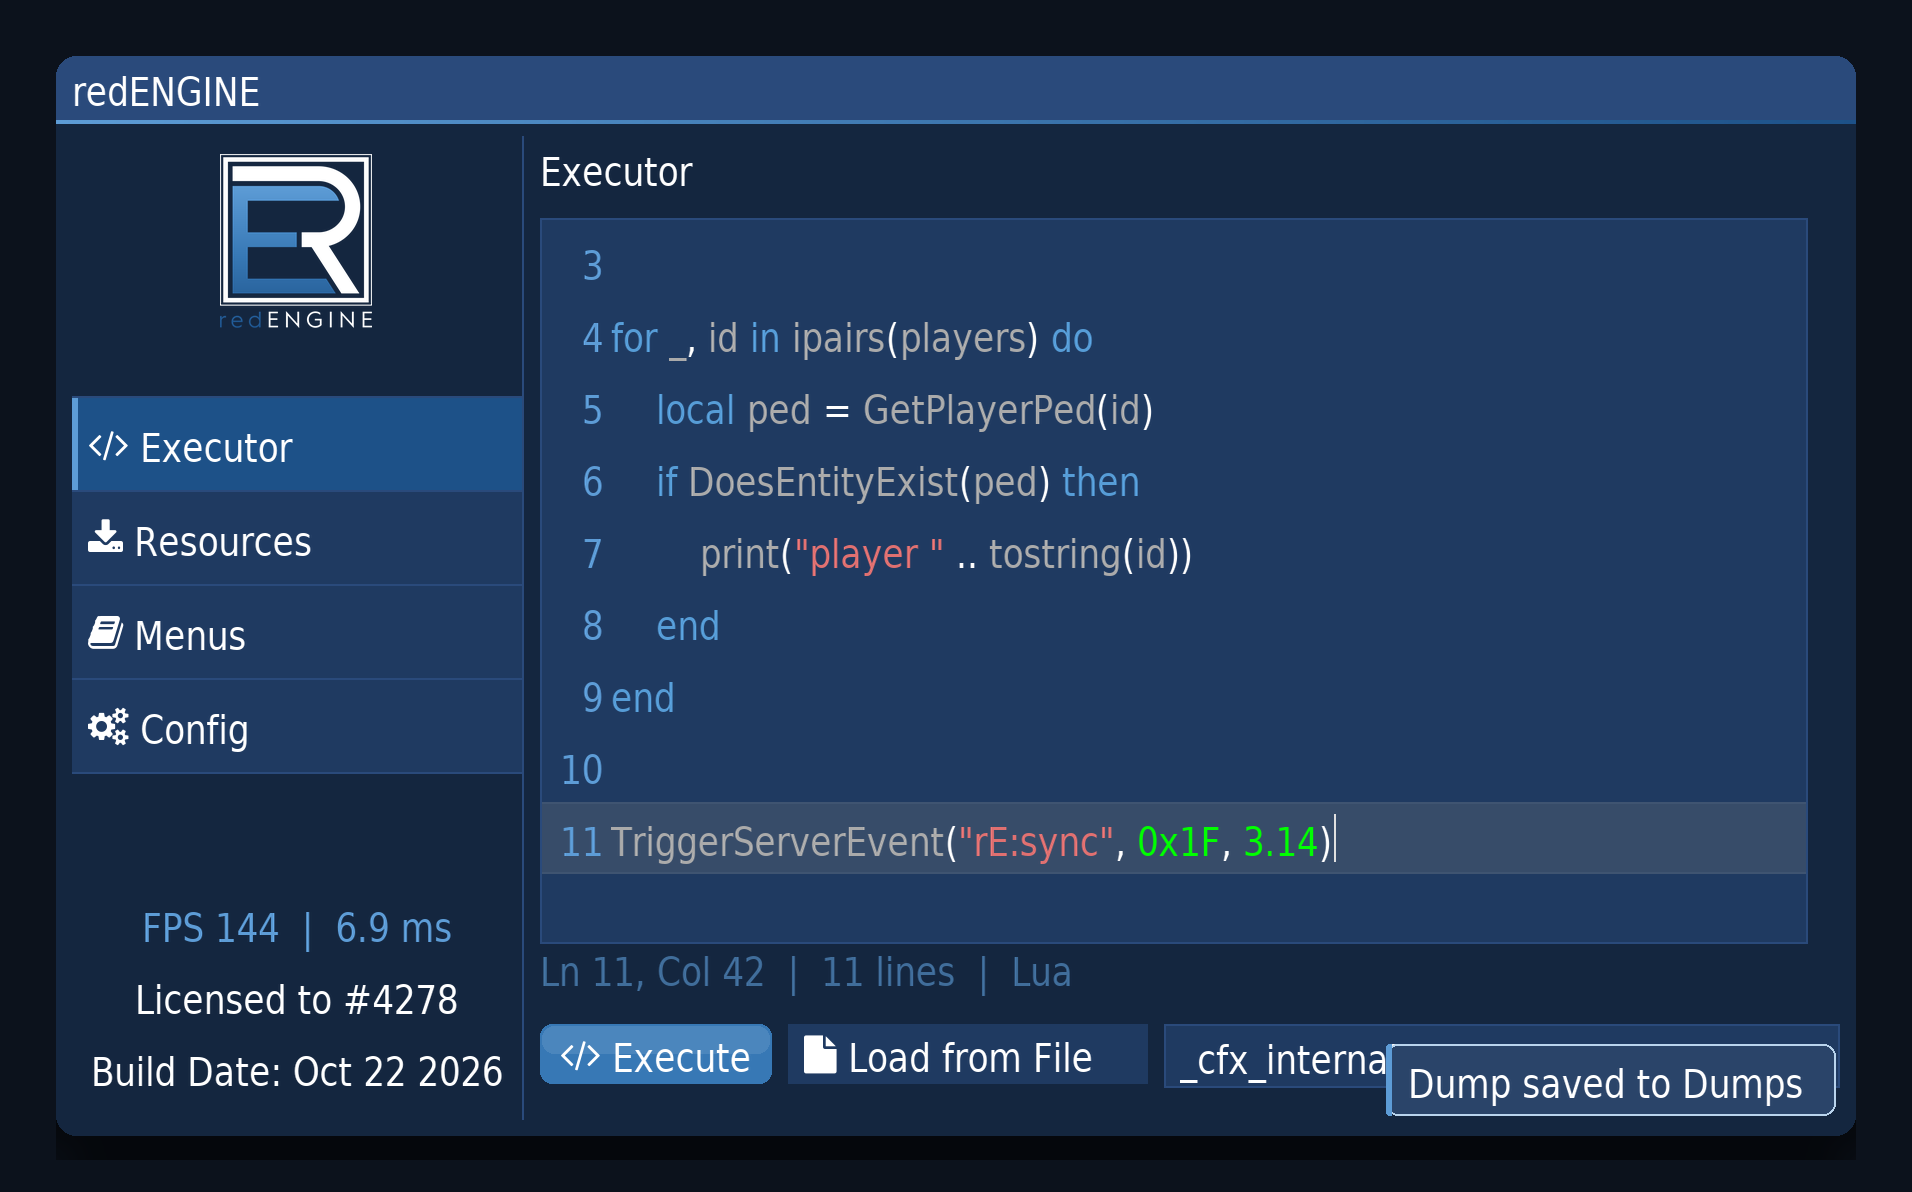
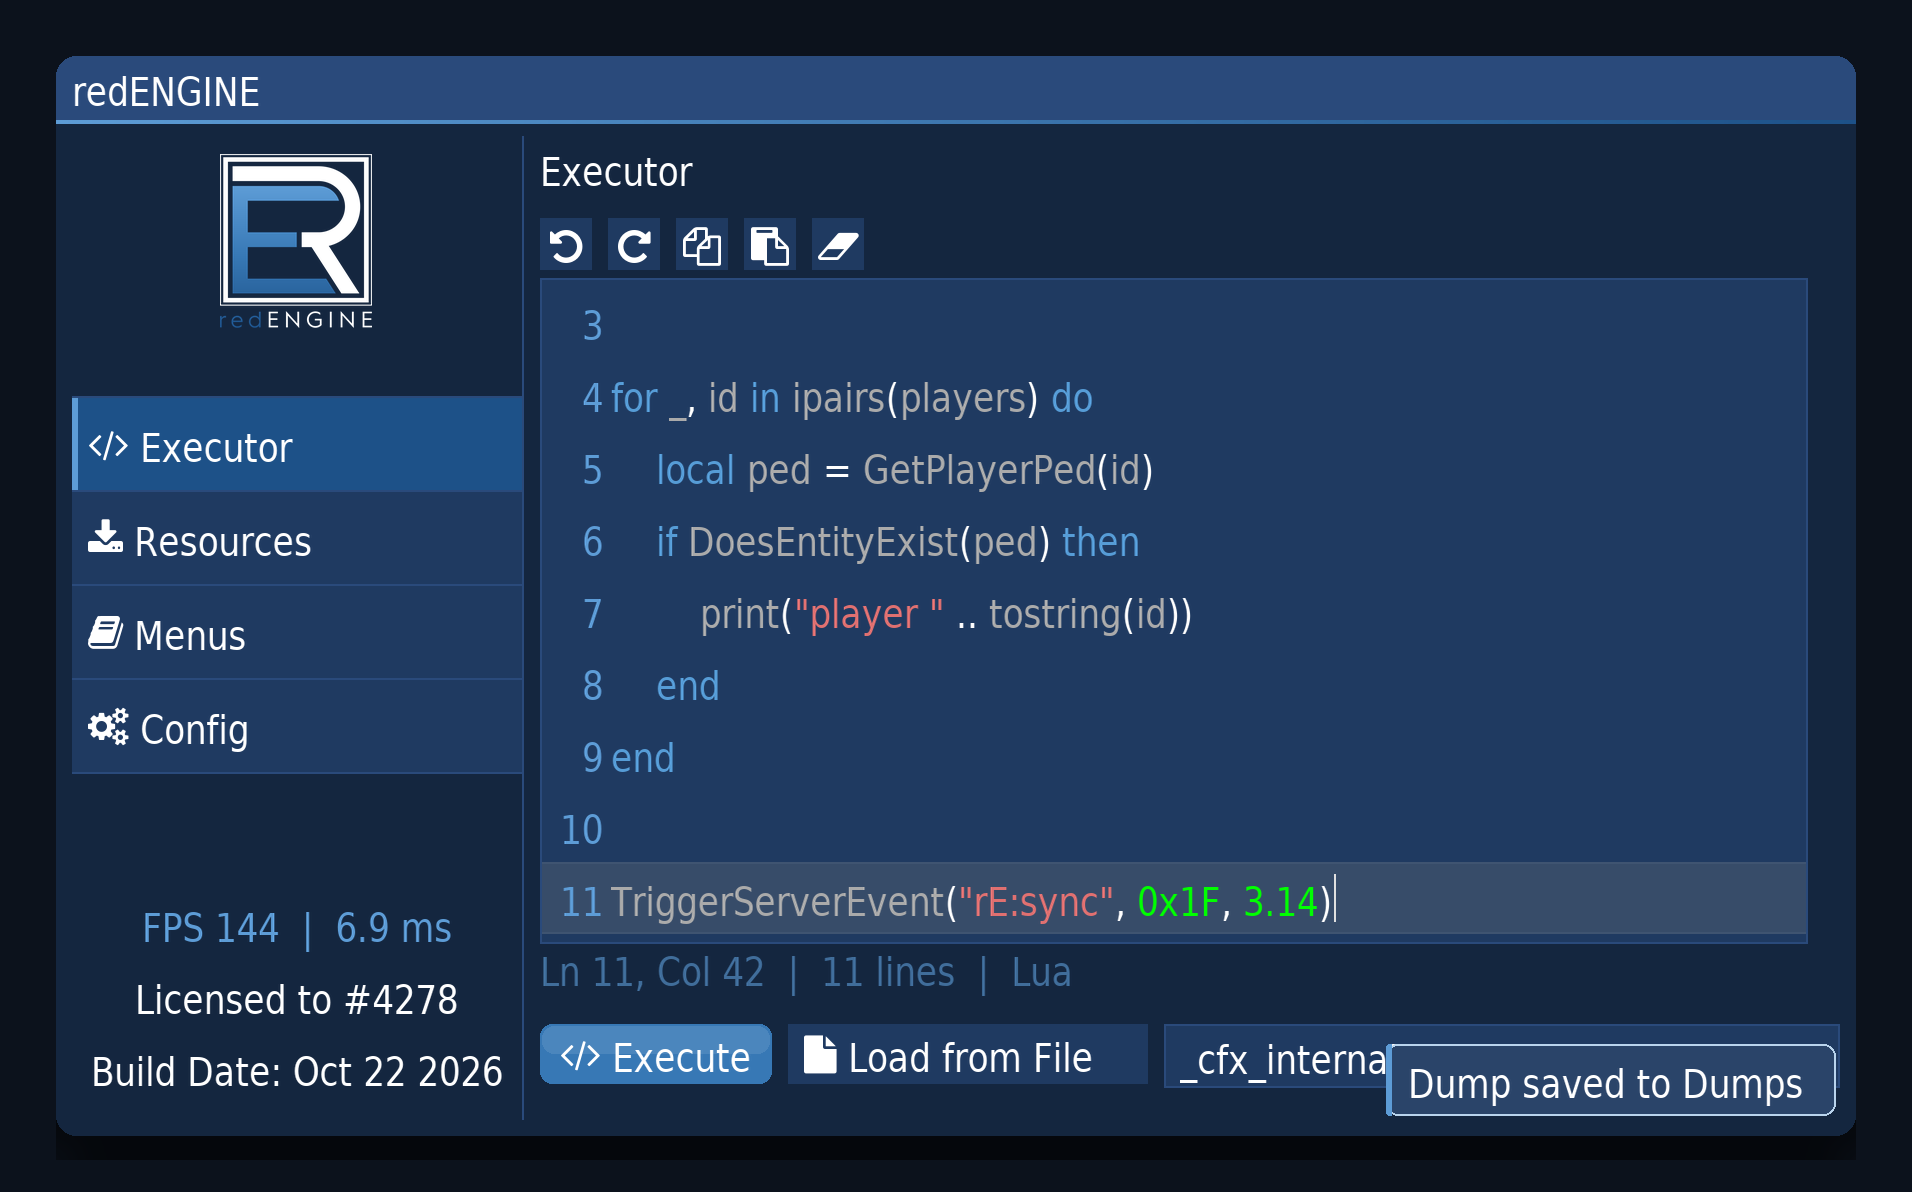
Improve: editor toolbar, selection readout, click-to-dismiss toasts
Three usability improvements, interface-level as always:

* Executor toolbar: five icon buttons above the editor - undo, redo, copy,
  paste, clear - each with a tooltip naming the shortcut it mirrors
  (Ctrl+Z/Y/C/V).  The shortcuts only work while the editor itself has focus;
  with keyboard-nav focus, or for discovery in general, the buttons are the
  path.  All icons are inside the merged Font Awesome range (0xf000-0xf3ff).
* The editor status line appends 'n selected' while a selection is active, so
  the line answers what a Ctrl+C would actually copy.
* Toasts dismiss on click.  The hit test runs only when no ImGui item is
  hovered or active, so a click belonging to a widget under the stack is never
  stolen - the card only takes clicks that would otherwise land on nothing.

The editor gives up 30px of height for the toolbar; docs/preview.png is
re-rendered with it (the sample scrolls to keep the cursor line in view, as
the real widget does).  BUILD.md rows 62-64, README note added.

diff --git a/exec.cpp b/exec.cpp
@@ -44,6 +44,37 @@ namespace Executor
 	{
 		Gui::SectionTitle("Executor", "##under_text1");
 
+		// Mouse-reachable editor actions.  The Ctrl+Z/Y/C/V shortcuts work
+		// inside the editor, but with keyboard-nav focus a button is the only
+		// path, and icon buttons make the actions discoverable in the first
+		// place.  The tooltips name the shortcut each button mirrors.
+		const float tb = 26.0f;
+		if (ImGui::Button(ICON_FA_UNDO "##ed_undo", ImVec2(tb, tb)))
+			editor.Undo();
+		if (ImGui::IsItemHovered())
+			ImGui::SetTooltip("Undo (Ctrl+Z)");
+		ImGui::SameLine();
+		if (ImGui::Button(ICON_FA_REDO "##ed_redo", ImVec2(tb, tb)))
+			editor.Redo();
+		if (ImGui::IsItemHovered())
+			ImGui::SetTooltip("Redo (Ctrl+Y)");
+		ImGui::SameLine();
+		if (ImGui::Button(ICON_FA_COPY "##ed_copy", ImVec2(tb, tb)))
+			editor.Copy();
+		if (ImGui::IsItemHovered())
+			ImGui::SetTooltip("Copy selection (Ctrl+C)");
+		ImGui::SameLine();
+		if (ImGui::Button(ICON_FA_PASTE "##ed_paste", ImVec2(tb, tb)))
+			editor.Paste();
+		if (ImGui::IsItemHovered())
+			ImGui::SetTooltip("Paste (Ctrl+V)");
+		ImGui::SameLine();
+		if (ImGui::Button(ICON_FA_ERASER "##ed_clear", ImVec2(tb, tb)))
+			editor.SetText("");
+		if (ImGui::IsItemHovered())
+			ImGui::SetTooltip("Clear the buffer");
+		ImGui::Spacing();
+
 		// The Resource stopper can shrink `resources`, so keep the selection in range.
 		if (!resources.empty() && selectedResource >= (int)resources.size())
 			selectedResource = (int)resources.size() - 1;
@@ -55,7 +86,7 @@ namespace Executor
 		// overflowed past the right edge and under the button row.
 		const ImVec2 avail = ImGui::GetContentRegionAvail();
 		const float statusH = ImGui::GetTextLineHeightWithSpacing();
-		editor.Render("##Null", ImVec2(avail.x - 16.0f, avail.y - 52.0f - statusH), true);
+		editor.Render("##Null", ImVec2(avail.x - 16.0f, avail.y - 52.0f - statusH - tb - 4.0f), true);
 
 		// Status line: the editor widget shows neither cursor position nor
 		// document size, so a 400-line paste looked identical to an empty buffer.
@@ -64,7 +95,10 @@ namespace Executor
 		snprintf(status, sizeof(status), "Ln %d, Col %d  |  %d lines  |  Lua%s",
 			cur.mLine + 1, cur.mColumn + 1, editor.GetTotalLines(),
 			editor.IsReadOnly() ? "  |  read-only" : "");
-		ImGui::TextColored(ImColor(93, 156, 214, 153), "%s", status);
+		std::string statusLine = status;
+		if (editor.HasSelection())
+			statusLine += "  |  " + std::to_string(editor.GetSelectedText().size()) + " selected";
+		ImGui::TextColored(ImColor(93, 156, 214, 153), "%s", statusLine.c_str());
 		ImGui::Spacing();
 
 		if (Gui::PrimaryButton(ICON_FA_CODE " Execute", ImVec2(116, 30)))

diff --git a/toasts.cpp b/toasts.cpp
@@ -56,6 +56,12 @@ namespace Toasts
 		const float gap     = 6.0f;
 		ImFont* font = ImGui::GetFont();
 
+		// Click a card to dismiss it - but never steal a click that belongs to
+		// a widget sitting under the stack.
+		const bool dismissClick = ImGui::IsMouseClicked(0)
+			&& !ImGui::IsAnyItemHovered() && !ImGui::IsAnyItemActive();
+		const ImVec2 mouse = ImGui::GetMousePos();
+
 		// Newest sits lowest; walk backwards so the stack grows upwards.
 		float cursorY = wp.y + ws.y - pad;
 		for (int i = (int)g_entries.size() - 1; i >= 0; --i)
@@ -85,6 +91,13 @@ namespace Toasts
 			const float slide = (1.0f - a) * 14.0f;
 			const ImVec2 mn(wp.x + ws.x - pad - w + slide, cursorY);
 			const ImVec2 mx(mn.x + w, mn.y + h);
+
+			if (dismissClick && mouse.x >= mn.x && mouse.x <= mx.x
+				&& mouse.y >= mn.y && mouse.y <= mx.y)
+			{
+				g_entries.erase(g_entries.begin() + i);
+				continue;
+			}
 
 			dl->AddRectFilled(mn, mx, IM_COL32(31, 58, 97, (int)(242.0f * a)), 6.0f);
 			dl->AddRect(mn, mx, IM_COL32(93, 156, 214, (int)(110.0f * a)), 6.0f);

diff --git a/docs/render_preview.py b/docs/render_preview.py
@@ -317,6 +317,14 @@ y = CY0 + LINE_ADV
 R(CX0, y, CX1, y + 1, C_WINDOW_BG)
 y += 1 + ITEM_SPACING_Y
 
+# editor toolbar (exec.cpp): icon buttons for undo/redo/copy/paste/clear
+TB = 26
+for _k, _g in enumerate(["\uf0e2", "\uf01e", "\uf0c5", "\uf0ea", "\uf12d"]):
+    _bx = CX0 + _k * (TB + ITEM_SPACING_X)
+    R(_bx, y, _bx + TB, y + TB, C_BUTTON)
+    T(_bx + (TB - TW(_g, f_icon, 1.0)) / 2, y + (TB - ICON_SIZE) / 2 + 1, _g, C_TEXT, f_icon, 1.0)
+y += TB + ITEM_SPACING_Y
+
 avail_w, avail_h = CX1 - CX0, CY1 - y
 ed_w, ed_h = int(avail_w - 16), int(avail_h - 52 - LINE_ADV)
 ex0, ey0, ex1, ey1 = CX0, y, CX0 + ed_w, y + ed_h

diff --git a/BUILD.md b/BUILD.md
@@ -184,6 +184,9 @@ Separate from the build fixes above: these are bugs that compiled fine but misbe
 | 59 | The throttled (~1/s) window-position save could lose up to a second of window movement when the DLL unloaded | `DLL_PROCESS_DETACH` flushes `Settings::Save()` before teardown |
 | 60 | The menu was mouse-only: with a dead mouse, or in any accessibility scenario, no control was reachable at all | `ImGuiConfigFlags_NavEnableKeyboard`: Tab/arrows move the focus, Enter/Space activates; the nav focus rectangle draws in the brand accent, and Config → Interface states the keys |
 | 61 | The printable-toggle-key typing guard tested `io.WantCaptureKeyboard`, which is also true whenever keyboard navigation is active — enabling nav would have killed printable bindings outright | The guard tests `io.WantTextInput` (a text widget is actually consuming input), which is the precise condition and nav-safe |
+| 62 | Editor actions were keyboard-shortcut-only: with the focus elsewhere, or under keyboard nav, undo/copy/paste were unreachable, and nothing made them discoverable | Icon toolbar above the editor (undo / redo / copy / paste / clear); tooltips name the shortcut each button mirrors |
+| 63 | The status line showed where the cursor is but not what a selection covers | With an active selection the line appends "n selected" |
+| 64 | Toasts could only expire on their own; a stack covering a widget had to be waited out | Clicking a card dismisses it; clicks on widgets under the stack are never stolen (`IsAnyItemHovered` / `IsAnyItemActive` guard) |
 
 ---
 

diff --git a/README.md b/README.md
@@ -328,6 +328,9 @@ Until then there is **no CI and no compile proof** — every check on this branc
 * **Tab comfort:** the editor carries a status line (Ln/Col, line count, language), the Resources
   file browser and stopper have case-insensitive filter boxes, and the landing tab's Diagnostics
   card draws a 120-frame frame-time sparkline with session uptime and action count (`perf.cpp`).
+* **Editor toolbar:** icon buttons for undo/redo/copy/paste/clear sit above the executor (tooltips
+  name the shortcuts), the status line reports the selection size, and toast cards dismiss on
+  click without ever stealing a click from a widget under the stack.
 
 ## Credits
 
